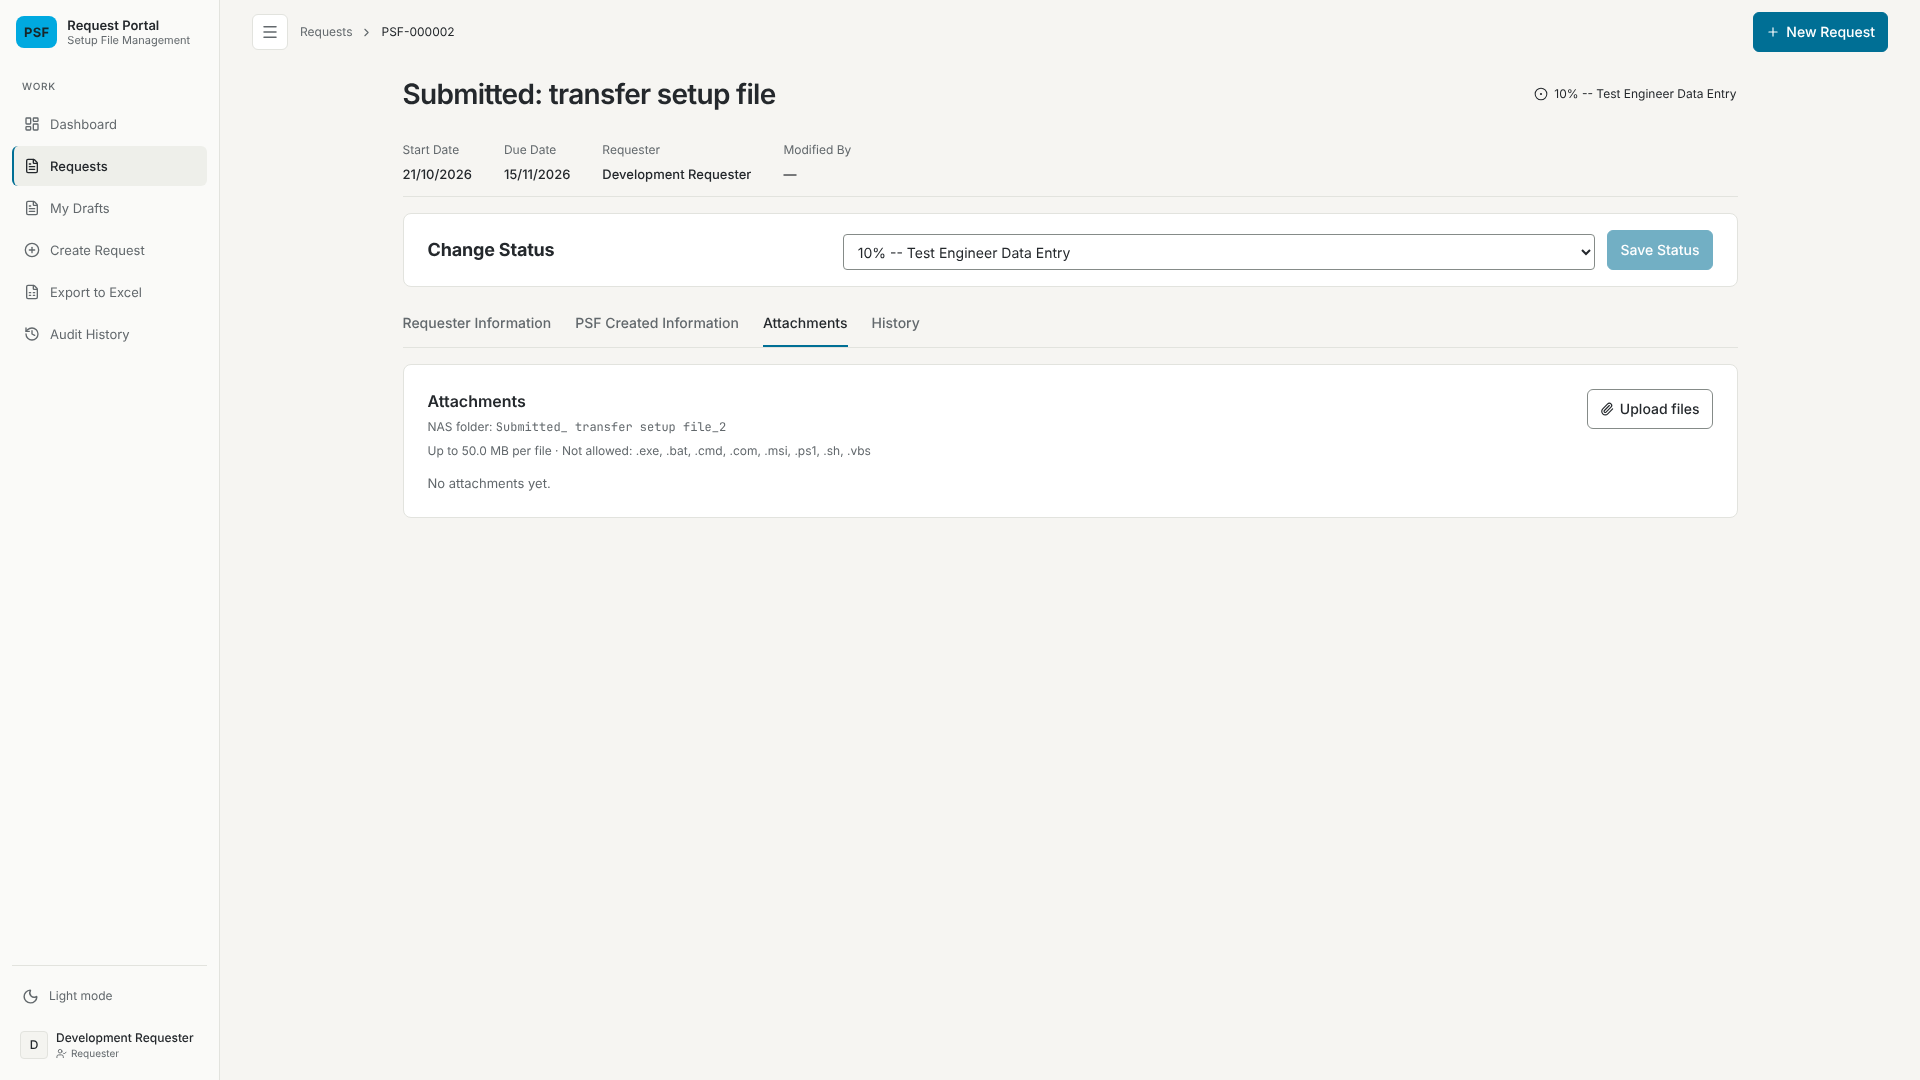
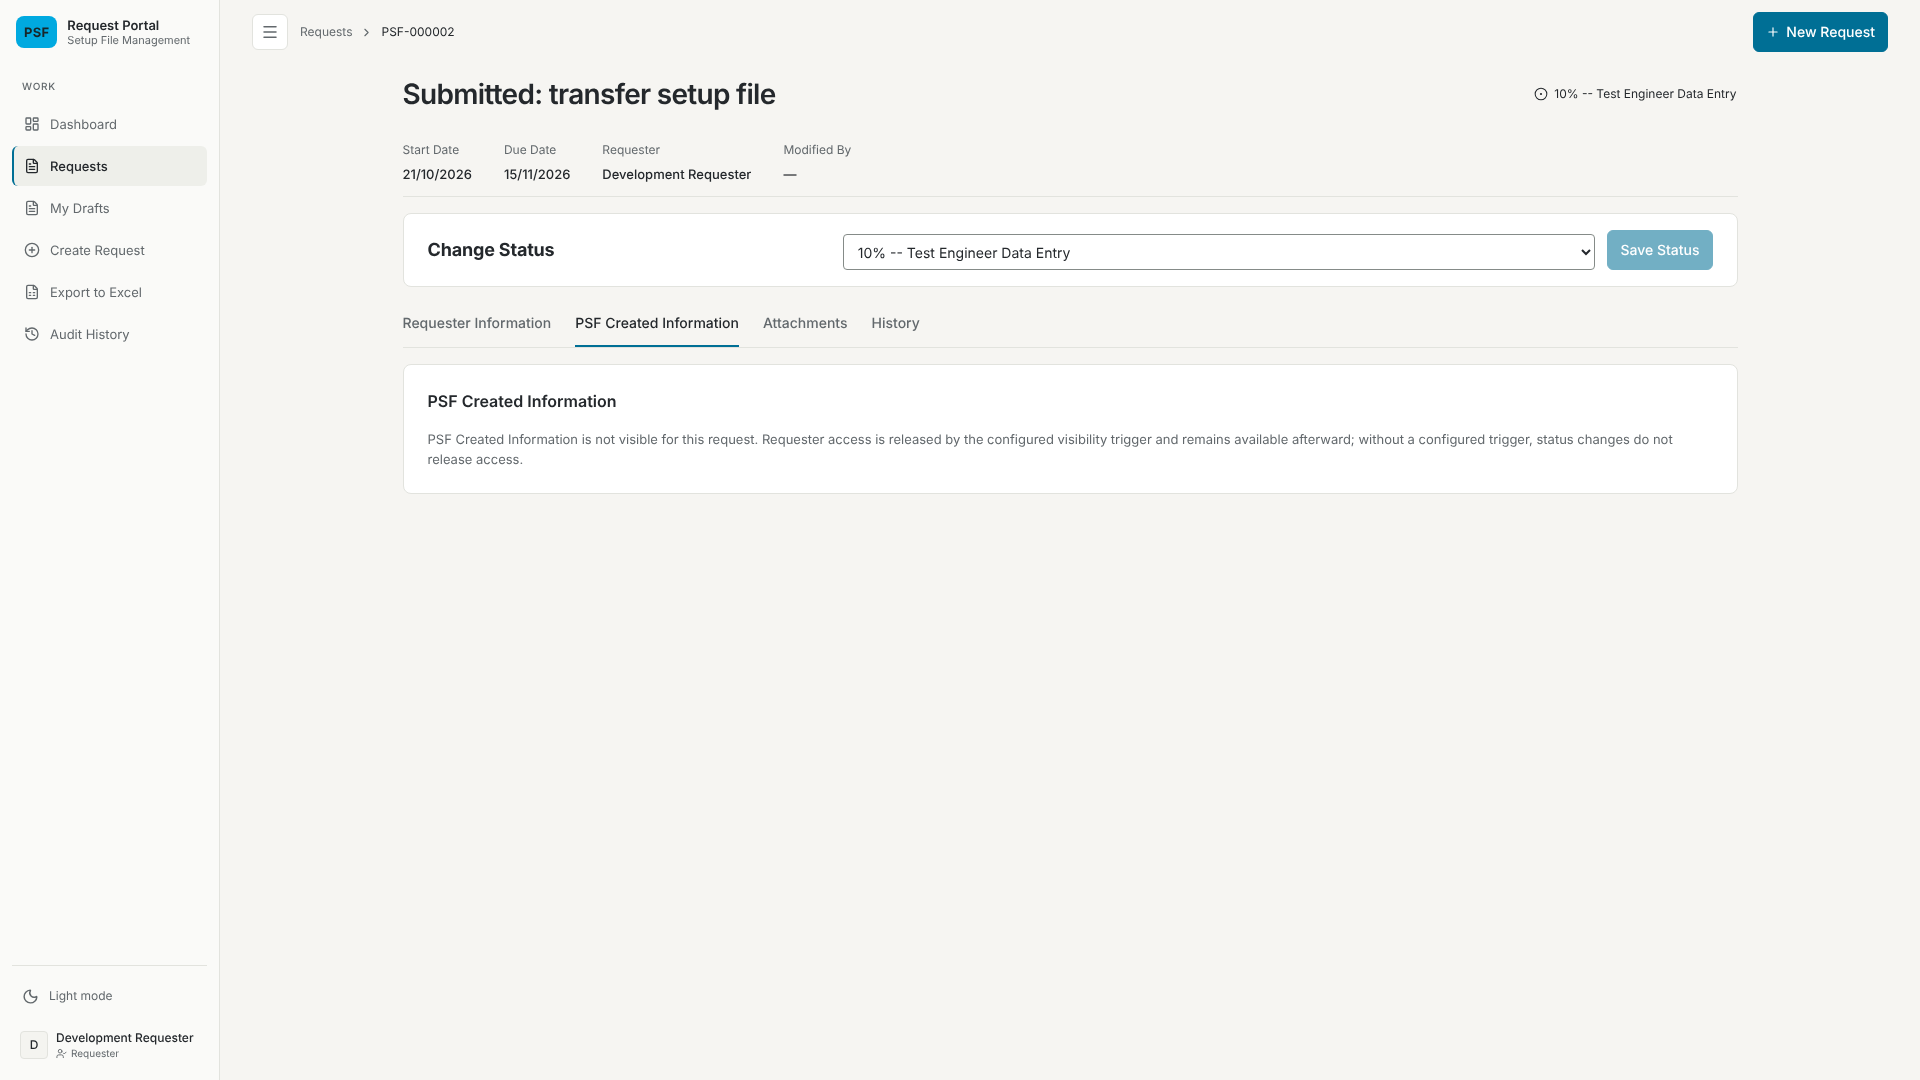
fix(ui): derive the request column width and correct its records
Review fixes for the centred request column:
- --request-page-max-width is computed from a new --form-rows-max-width
  (840px, also used by .dynamic-form__rows) and --card-padding instead of a
  hardcoded 1335px; every measured width is unchanged.
- The token's comment names Admin Draft detail, which shares .detail-page.
- The verification section no longer claims the prototype commits were
  removed (they stay in history; their files were removed), names the tree
  it was captured from, records the throwaway database's deletion, and
  measures PSF Created Information rows, which also fill the card.
- The design spec's 21 October form layout notice covers the centred column
  next to the "shell fills available width" rule.

Claude-Session: https://claude.ai/code/session_01WsnodSJwp1qoN2Y519XRAT

diff --git a/frontend/src/index.css b/frontend/src/index.css
@@ -19,8 +19,9 @@
   --shadow-sm: none; --shadow-md: 0 4px 16px #172b3a18; --shadow-lg: 0 8px 32px #172b3a24;
   --shadow-bar: 0 -4px 12px #172b3a14;
   --card-padding: 24px;
-  /* New Request and Request Detail column: one and a half times a card around the 840px form rows. */
-  --request-page-max-width: 1335px;
+  --form-rows-max-width: 840px;
+  /* New Request, Request Detail and Admin Draft detail column: one and a half times a card around the form rows (1335px). */
+  --request-page-max-width: calc(1.5 * (var(--form-rows-max-width) + 2 * var(--card-padding) + 2px));
   /* Room kept clear above the pinned form action bar when keyboard focus scrolls a field into view. */
   --action-bar-clearance: 96px; --action-bar-clearance-preview: 72px;
 }
@@ -211,7 +212,7 @@ td > span:not([class]), td .cell-meta { color: var(--muted-foreground); }
 /* One row per field: label cell left, control or stored value right, capped for reading. Editable and
    read-only rows share the label type and the control line (text 8px below the row top on a 36px line),
    so switching a request between viewing and editing keeps ordinary rows in place. */
-.dynamic-form__rows { display: grid; min-width: 0; max-width: 840px; border-top: 1px solid var(--border); }
+.dynamic-form__rows { display: grid; min-width: 0; max-width: var(--form-rows-max-width); border-top: 1px solid var(--border); }
 .dynamic-form__row { display: grid; grid-template-columns: 260px minmax(0, 1fr); gap: 4px 24px; align-items: start; min-width: 0; padding: 6px 0; border-bottom: 1px solid var(--border); }
 .dynamic-form__label { padding-top: 8px; font-size: 14px; line-height: 20px; font-weight: 700; color: var(--foreground); overflow-wrap: anywhere; }
 .dynamic-form__control { display: grid; gap: 6px; min-width: 0; }

diff --git a/docs/verification/2026-10-21-single-column-form.md b/docs/verification/2026-10-21-single-column-form.md
@@ -261,25 +261,35 @@ and the configured database were not exercised.
 
 New Request, Request Detail (Drafts and submitted requests) and Admin Draft
 detail in Draft Management sit in one column at most 1335px wide, centred in the
-content area: one and a half times a card around the 840px rows, chosen from a
-throwaway prototype of four layouts (variant D). In that column the form rows
-fill the card; the label column stays 260px. Below 1335px of content width the
-column fills the content area as before. The Admin Form Management preview and
-Request Snapshots keep rows at most 840px wide. Where Attachments shows under
-Requester Information (a Draft, including in Draft Management) its card now
-sits 16px below, as on New Request; on a submitted request, Attachments is its
-own tab and keeps the tab spacing. CSS only, in
-[`index.css`](../../frontend/src/index.css) (`--request-page-max-width`).
+content area: one and a half times a card around the 840px form rows. The width
+was chosen after comparing four layouts in a throwaway prototype, kept in this
+branch's history (`d634177`, `7890f85`) and removed from the tree in `de99ecd`.
+In that column the form rows, including PSF Created Information, fill the card;
+the label column stays 260px. Below 1335px of content width the column fills
+the content area as before. The Admin Form Management preview and Request
+Snapshots keep rows at most 840px wide. Where Attachments shows under Requester
+Information (a Draft, including in Draft Management) its card now sits 16px
+below, as on New Request; on a submitted request, Attachments is its own tab
+and keeps the tab spacing. CSS only, in [`index.css`](../../frontend/src/index.css):
+`--request-page-max-width` is computed from `--form-rows-max-width` (840px) and
+`--card-padding`.
 
-- Branch `claude/eloquent-goodall-p1sbcp`, based on `main` at `0c2ddef`; the
-  prototype commits on that branch were removed before these captures.
+- Branch `claude/eloquent-goodall-p1sbcp`, based on `main` at `0c2ddef`.
+  Captured from the tree of the commit that adds this section: `de99ecd` with
+  the column width written as that computed token, which leaves every measured
+  width unchanged (all measurements were repeated after the change).
 - Environment as above, with Chromium driven at 1920×1080, 1440×1000 and
   390×844 in the light theme; a throwaway PostgreSQL 16 cluster under
-  `/var/tmp`; the compiled backend with local development identities and no
-  `backend/.env`; the Vite dev server. The configured/shared database was not
-  used.
-- Local data: the seeded ten-field Requester Form Version 1, one Draft and one
-  request submitted to its first Status, created through the API.
+  `/var/tmp`, deleted afterwards; the compiled backend with local development
+  identities and no `backend/.env`; the Vite dev server; Google Fonts answered
+  with empty CSS. The configured/shared database was not used.
+
+### Local data
+
+The seeded ten-field Requester Form Version 1 and PSF Created Information Form,
+with one Draft and one request submitted to its first Status, both created
+through the API as the local Requester. PSF Created Information was viewed as
+the local Admin, since a Requester does not see it.
 
 ### Test results
 
@@ -290,8 +300,9 @@ own tab and keeps the tab spacing. CSS only, in
 | Frontend lint | `cd frontend && npx eslint .` | the same 1 error as on `main` (`GlobalHistoryPage.test.tsx:389`, `no-useless-assignment`) |
 | Frontend build | `cd frontend && npx vite build` | Passed |
 
-No test asserts layout: jsdom does not compute it, so the change was measured
-in the browser.
+The base was not re-run: the change touches no test, script or component. No
+test asserts layout, since jsdom does not compute it, so the change was
+measured in the browser.
 
 ### Browser checks
 
@@ -302,6 +313,7 @@ request and Admin Draft detail.
 | --- | --- | --- | --- |
 | Page column | 1335px, 151px clear on each side | 1156px, fills the content area | 358px, fills the content area |
 | Form rows | 1285px, the card's inner width; label column 260px | 1106px; label column 260px | 308px, label above its control |
+| PSF Created Information rows (submitted request, as Admin) | 1285px; label column 260px | 1106px; label column 260px | not measured |
 | Attachments below Requester Information (Draft, Draft Management, New Request) | 16px | 16px | 16px |
 | Submitted request: tabs to the panel, Requester Information and Attachments tabs | 16px and 16px | 16px and 16px | 16px and 16px |
 | Horizontal overflow | none | none | none |
@@ -311,6 +323,7 @@ request and Admin Draft detail.
 | Page | Capture |
 | --- | --- |
 | Submitted request | [1920×1080](assets/2026-10-21-single-column-form/centred-column-request-1920.png) |
+| Submitted request, PSF Created Information (Admin) | [1920×1080](assets/2026-10-21-single-column-form/centred-column-psf-1920.png) |
 | Draft, scrolled to Attachments | [1920×1080](assets/2026-10-21-single-column-form/centred-column-draft-1920.png), [390×844](assets/2026-10-21-single-column-form/centred-column-draft-390.png) |
 | New Request | [1920×1080](assets/2026-10-21-single-column-form/centred-column-new-request-1920.png) |
 | Admin Draft detail (Draft Management) | [1920×1080](assets/2026-10-21-single-column-form/centred-column-admin-draft-1920.png) |
@@ -318,7 +331,6 @@ request and Admin Draft detail.
 ### Limits of the centred column checks
 
 Chromium 141 only, light theme only (the change sets widths and a margin, no
-colours), with the seeded ten-field form rather than a long one. Widths between
-1440 and 1920 were not captured; the column stops growing at 1335px. Google
-Fonts requests were answered with empty CSS, as above. Deployment and the
-configured database were not exercised.
+colours), with the seeded ten-field forms rather than long ones. Widths between
+1440 and 1920 were not captured; the column stops growing at 1335px. Deployment
+and the configured database were not exercised.

diff --git a/docs/current-implementation.md b/docs/current-implementation.md
@@ -5,7 +5,7 @@ The dated updates below include subsequent changes to that baseline.
 See [main documentation alignment and evidence availability](verification/2026-10-06-main-documentation-alignment.md)
 for the scope of this review.
 
-> **Centred request column, 21 October 2026:** New Request, Request Detail (Drafts and submitted requests) and Admin Draft detail sit in one column at most 1335px wide (`--request-page-max-width`), centred in the content area, and their form rows fill the card instead of stopping at 840px; the label column stays 260px. New Request was previously capped at 1120px and the detail pages were not capped. A Draft's Attachments card, also in Draft Management, now sits 16px below Requester Information, as on New Request. See the [verification record](verification/2026-10-21-single-column-form.md#centred-request-column). Checks ran in Chromium against a throwaway local database.
+> **Centred request column, 21 October 2026:** New Request, Request Detail (Drafts and submitted requests) and Admin Draft detail sit in one column at most 1335px wide (`--request-page-max-width`, one and a half times a card around the 840px `--form-rows-max-width`), centred in the content area, and their form rows, including PSF Created Information, fill the card instead of stopping at 840px; the label column stays 260px. The Admin Form Management preview and Request Snapshots keep the 840px cap. New Request was previously capped at 1120px and the detail pages were not capped. A Draft's Attachments card, also in Draft Management, now sits 16px below Requester Information, as on New Request. See the [verification record](verification/2026-10-21-single-column-form.md#centred-request-column). Checks ran in Chromium against a throwaway local database.
 
 > **Pinned action bar, 21 October 2026:** on every editable form (New Request, Draft and submitted request editing, PSF Created Information editing and the Admin Form Management preview) the action buttons sit in a bar pinned to the bottom of the viewport, or of the preview's scroll region, while the form scrolls; at the end of the form it sits below the last row. It spans the form card with Save as the right-most button at the card's right edge. Saving, saved and save errors of the Requester form and of PSF Created Information appear in the bar, left of the buttons (saving and saved as a status, errors as an alert), instead of at the top of the card or page; the preview's "All required fields are complete." appears there too. Status changes, load errors, Draft schema upgrades and other page-level notices stay at the top. See the [verification record](verification/2026-10-21-single-column-form.md#pinned-action-bar) (issue #90). Checks ran in Chromium against a throwaway local database.
 

diff --git a/docs/design/2026-10-03-frontend-design-spec.md b/docs/design/2026-10-03-frontend-design-spec.md
@@ -2,7 +2,7 @@
 
 > **Status clarification, 4 October 2026:** [Database Status names and interaction rules](../status-catalog-and-manual-updates.md) supersede old short-label catalogs, directed transition matrices and action-driven automatic Status changes below. Use complete configured strings for every displayed request Status. This documentation update does not change application source.
 
-> **Form layout update, 21 October 2026:** the [current implementation guide](../current-implementation.md#requests-forms-and-workflow) supersedes three form rules below. Form Schema field labels are 14px / 20px / 700 in the foreground colour, editable and read-only alike, rather than 12px / 18px / 500; other labels keep the 12px style. Each field is one row with its label on the left, so the native radio fieldset, the two-column desktop grid and the full-width multiline fields are gone; a radio group is a `role="radiogroup"` named by its row's label (issue #88). Editable forms end in an action bar pinned to the bottom of the viewport with a subtle upward shadow, an exception to "flat surfaces use no shadow" (issue #90). This notice does not change application source.
+> **Form layout update, 21 October 2026:** the [current implementation guide](../current-implementation.md#requests-forms-and-workflow) supersedes four form rules below. Form Schema field labels are 14px / 20px / 700 in the foreground colour, editable and read-only alike, rather than 12px / 18px / 500; other labels keep the 12px style. Each field is one row with its label on the left, so the native radio fieldset, the two-column desktop grid and the full-width multiline fields are gone; a radio group is a `role="radiogroup"` named by its row's label (issue #88). Editable forms end in an action bar pinned to the bottom of the viewport with a subtle upward shadow, an exception to "flat surfaces use no shadow" (issue #90). New Request, Request Detail and Admin Draft detail centre their content in a column at most 1335px wide, with form rows filling the card; the shell still fills the available width, so this is a reading column, not the marketing-sized container ruled out under the application shell. This notice does not change application source.
 
 Status: approved by the user on 3 October 2026 for implementation with the accompanying concepts, implementation plan, and verified worker routing policy. Written requirements and existing business/API contracts take precedence over generated concepts.
 
